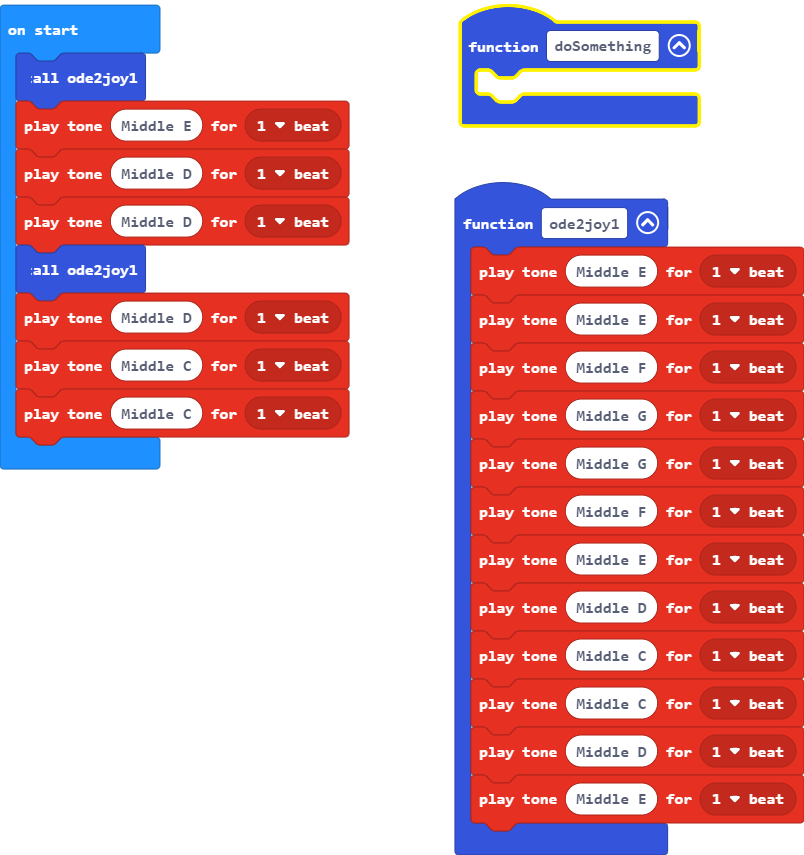
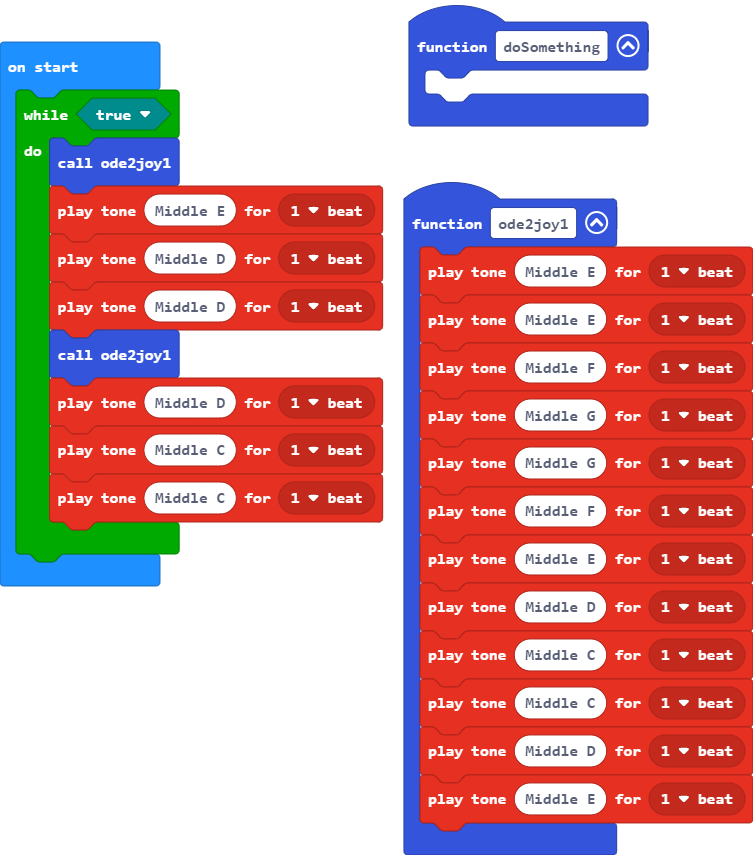
attempting to implement logic to diy on/off button

diff --git a/main.ts b/main.ts
@@ -15,11 +15,13 @@ function ode2joy1 () {
     music.playTone(294, music.beat(BeatFraction.Whole))
     music.playTone(330, music.beat(BeatFraction.Whole))
 }
-ode2joy1()
-music.playTone(330, music.beat(BeatFraction.Whole))
-music.playTone(294, music.beat(BeatFraction.Whole))
-music.playTone(294, music.beat(BeatFraction.Whole))
-ode2joy1()
-music.playTone(294, music.beat(BeatFraction.Whole))
-music.playTone(262, music.beat(BeatFraction.Whole))
-music.playTone(262, music.beat(BeatFraction.Whole))
+while (true) {
+    ode2joy1()
+    music.playTone(330, music.beat(BeatFraction.Whole))
+    music.playTone(294, music.beat(BeatFraction.Whole))
+    music.playTone(294, music.beat(BeatFraction.Whole))
+    ode2joy1()
+    music.playTone(294, music.beat(BeatFraction.Whole))
+    music.playTone(262, music.beat(BeatFraction.Whole))
+    music.playTone(262, music.beat(BeatFraction.Whole))
+}
